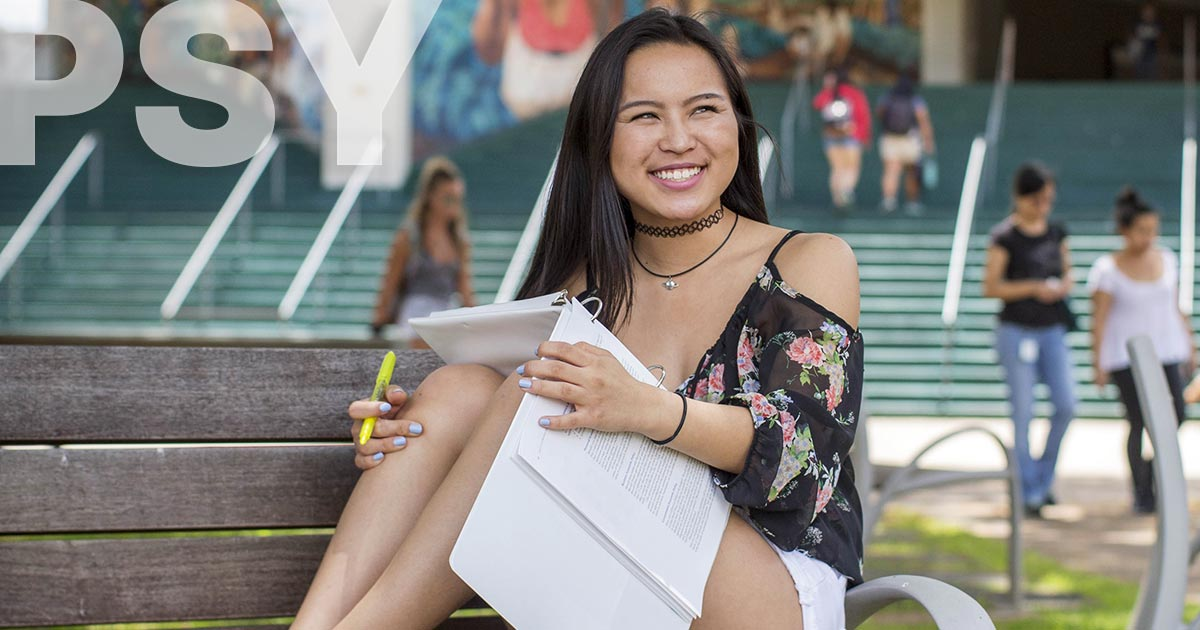
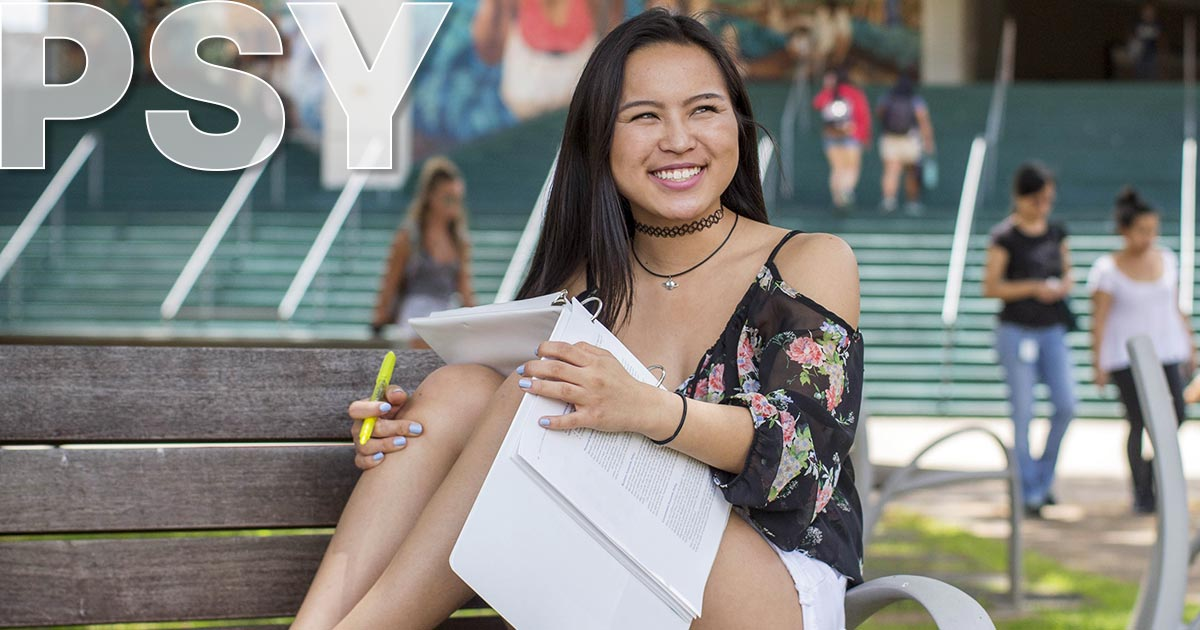
go

Changed region(s): [[0.0, 0.0, 0.3083, 0.2714], [0.2775, 0.0, 0.4008, 0.3016]]

diff --git a/docs/project-conventions.md b/docs/project-conventions.md
@@ -90,3 +90,30 @@ Review whether URL changes can be avoided before deciding on redirects or remova
 Do not create HTML redirect pages by default; the user explicitly wants to avoid
 them. Hosting redirect support is not assumed. An inventory records proposed
 mappings and is not evidence that redirects have been installed.
+
+## Hero imagery across sites
+
+Agreed November 10, 2026: unit-specific hero photography is not the default.
+Use a common pool of generic student, youth, and campus imagery across sites.
+Assign images from that pool to individual pages through their hero JSON records;
+shared-pool images should live in shared media rather than be duplicated per unit.
+A unit may receive custom imagery when it supplies suitable images or proposes
+images that are reasonably obtainable. Do not invent a bespoke visual theme for
+every department. Geography's satellite imagery is an existing exception whose
+future treatment remains undecided; do not replace it without direction.
+
+The user is collecting images from the College of Social Sciences backup for
+possible batch resizing and later assignment. Responsive display heights of
+210px desktop / 180px tablet / 150px mobile are a proposed direction, not yet an
+instruction to change current settings or resize assets. Choose source dimensions
+with viewport width, crop, and display density in mind; display height alone does
+not determine the required image resolution.
+
+Geography now explicitly defines hero controls and Open Graph in its unit
+`site-settings.json`, including the site URL (moved from `unit-details.json`).
+Its preserved standard hero treatment is 210/187.5/90px with transparent overlay,
+location labels and attribution enabled. Uses `/media/open-graph/geo.jpg` at
+1200 by 630. Shared CSS fallback values remain for compatibility; GEO's explicit
+JSON values override them. Page image assignments and credits remain in hero data,
+as with other units; do not duplicate them in site settings. GEO's legacy build
+registers the same `socialUrl` helper as the common unit build.

diff --git a/docs/work-status.md b/docs/work-status.md
@@ -2,6 +2,28 @@
 
 Updated November 10, 2026 (Pacific/Honolulu).
 
+## Latest completed task: GEO settings standardization
+
+- Added explicit hero height/overlay/visibility controls and Open Graph image
+  settings in shared `src/data/units/geo/site-settings.json`. Moved site URL from
+  GEO unit-details to site-settings. Used the user's existing `geo.jpg` asset.
+- Preserved satellite assignments, crop positions, 210/187.5/90px heights, location
+  labels, and attribution. Shared CSS defaults remain compatibility fallbacks.
+- GEO's older Eleventy configuration lacked `socialUrl`; added the same helper as
+  the shared unit build. Shared checks and GEO's 32-page build passed. Checked
+  generated image URL/asset and hero heights, location and credit output.
+- Changes are local; no commit/push/deployment performed. Existing user edits to
+  other units' settings and Open Graph assets were preserved.
+
+## Latest agreed direction: shared hero image pool
+
+Default heroes across sites come from a shared pool of student/youth/campus images,
+not bespoke unit imagery. Custom unit imagery is optional when suitable images are
+reasonably obtainable. Geography's satellite treatment may be revisited, but no
+replacement is authorized. User is preparing assets from a CSS backup; wait for
+those assets and assignment instructions. Heights 210/180/150 are under
+consideration; no current settings or assets changed. Recorded in conventions.
+
 ## Current task: Sociology draft
 
 - Built `../soc` using the reviewed Navigation Review/SOC workbook and user walkthrough.
